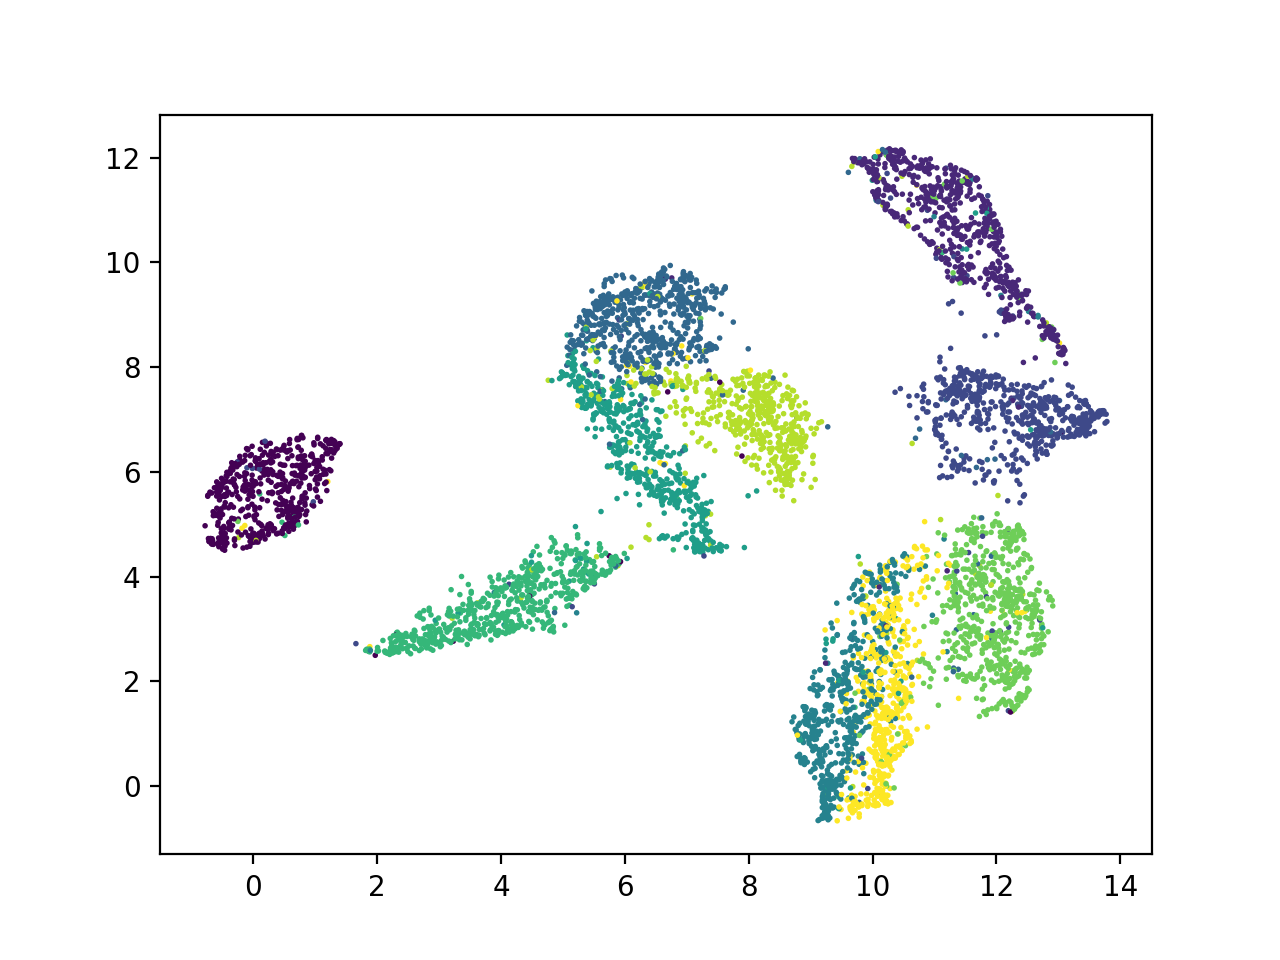
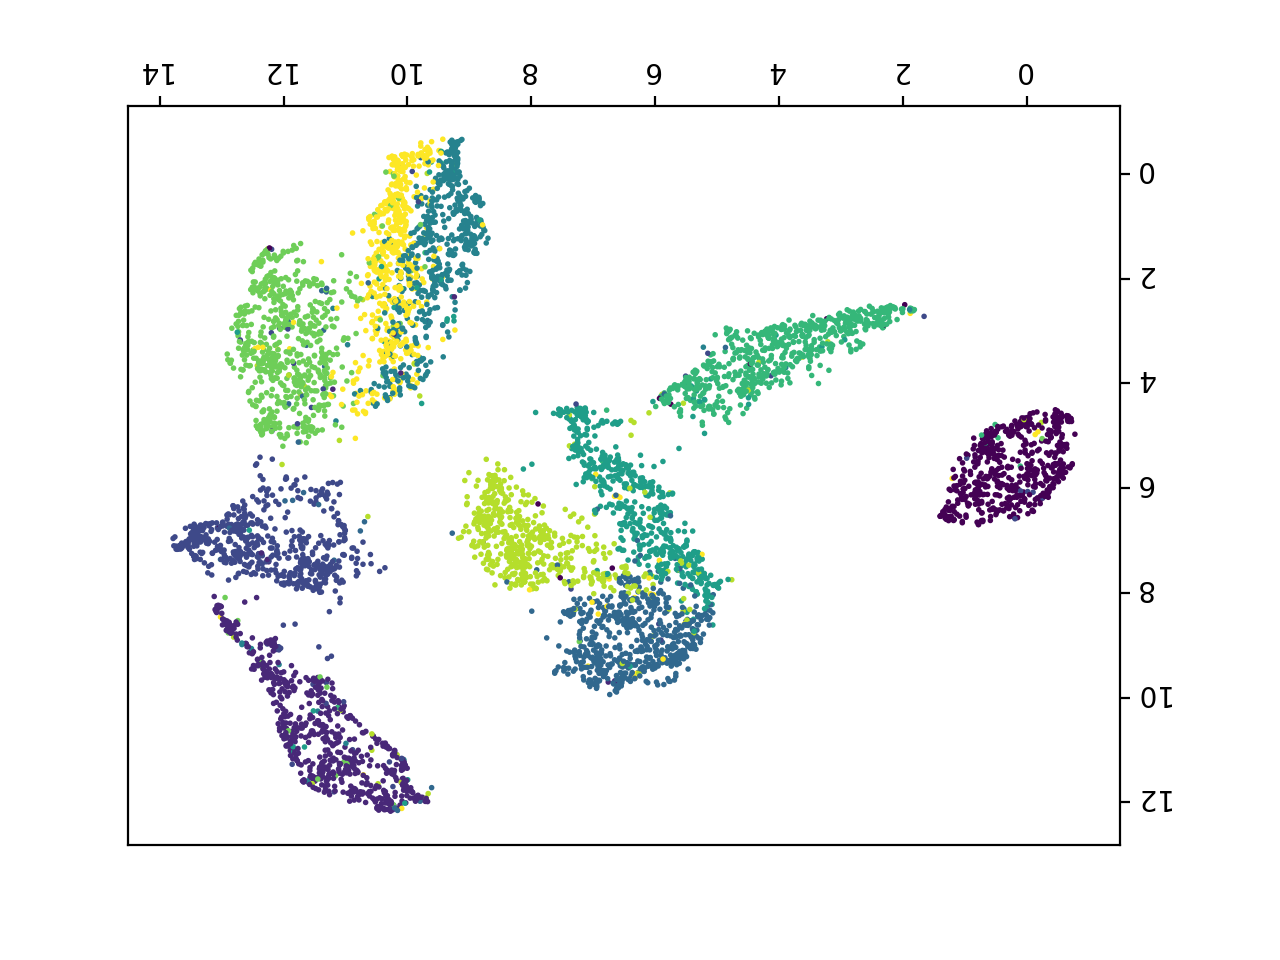
Option for change in symmetrization

Changed region(s): [[0.0938, 0.0625, 0.9062, 0.9375], [0.2812, 0.2812, 0.7188, 0.7188]]

diff --git a/umap/umap_.py b/umap/umap_.py
@@ -180,6 +180,8 @@ def smooth_knn_dist(
             for j in range(1, distances.shape[1]):
                 # ANDREW - when adding option for turning UMAP pseudo distance on/off,
                 #   an equivalent change needs to occur here!!
+                # FIXME FIXME FIXME -- does this just rotate everything 180 degrees??
+                # Images imply that it does
                 if pseudo_distance:
                     d = distances[i, j] - rho[i]
                 else:
@@ -424,10 +426,10 @@ def fuzzy_simplicial_set(
     knn_dists=None,
     angular=False,
     local_connectivity=1.0,
-    apply_set_operations=True,
     verbose=False,
     return_dists=True,
     pseudo_distance=True,
+    tsne_symmetrization=False
 ):
     """Given a set of data X, a neighborhood size, and a measure of distance
     compute the fuzzy simplicial set (here represented as a fuzzy graph in
@@ -530,10 +532,12 @@ def fuzzy_simplicial_set(
     # Symmetrized = A + A^T - pointwise_mul(A, A^T)
     # Add option to replace with t-SNE symmetrization
     # Symmetrized = (A + A^T) / 2
-    if apply_set_operations:
-        transpose = result.transpose()
+    transpose = result.transpose()
+    if not tsne_symmetrization:
         prod_matrix = result.multiply(transpose)
         result = result + transpose - prod_matrix
+    else:
+        result = (result + transpose) / 2
 
     result.eliminate_zeros()
 
@@ -1018,6 +1022,7 @@ class UMAP(BaseEstimator):
         self.pseudo_distance = pseudo_distance
         self.n_epochs = n_epochs
         self.init = init
+        self.tsne_symmetrization = tsne_symmetrization
         self.n_components = n_components
         self.repulsion_strength = repulsion_strength
         self.learning_rate = learning_rate
@@ -1298,9 +1303,9 @@ class UMAP(BaseEstimator):
                 self._knn_dists,
                 self.angular_rp_forest,
                 self.local_connectivity,
-                True,
                 self.verbose,
-                pseudo_distance=self.pseudo_distance
+                pseudo_distance=self.pseudo_distance,
+                tsne_symmetrization=self.tsne_symmetrization
             )
             # Report the number of vertices with degree 0 in our our umap.graph_
             # This ensures that they were properly disconnected.
@@ -1357,9 +1362,9 @@ class UMAP(BaseEstimator):
                 None,
                 self.angular_rp_forest,
                 self.local_connectivity,
-                True,
                 self.verbose,
-                pseudo_distance=self.pseudo_distance
+                pseudo_distance=self.pseudo_distance,
+                tsne_symmetrization=self.tsne_symmetrization
             )
             # Report the number of vertices with degree 0 in our our umap.graph_
             # This ensures that they were properly disconnected.
@@ -1408,9 +1413,9 @@ class UMAP(BaseEstimator):
                 self._knn_dists,
                 self.angular_rp_forest,
                 self.local_connectivity,
-                True,
                 self.verbose,
-                pseudo_distance=self.pseudo_distance
+                pseudo_distance=self.pseudo_distance,
+                tsne_symmetrization=self.tsne_symmetrization
             )
             # Report the number of vertices with degree 0 in our our umap.graph_
             # This ensures that they were properly disconnected.

diff --git a/umap/mnist_dr.py b/umap/mnist_dr.py
@@ -2,6 +2,7 @@ import numpy as np
 from tensorflow import keras as tfk
 from umap_ import UMAP
 import argparse
+from sklearn.manifold import TSNE
 from matplotlib import pyplot as plt
 
 parser = argparse.ArgumentParser()
@@ -9,6 +10,7 @@ parser.add_argument('--random-init', action='store_true', help='whether to initi
 parser.add_argument('--tsne-symmetrization', action='store_true', help='whether to symmetrize akin to tSNE method')
 parser.add_argument('--ignore-umap-metric', action='store_true', help='If true, do NOT subtract rho\'s in the umap pseudo-distance metric')
 parser.add_argument('--downsample_stride', type=int, default=10)
+parser.add_argument('--dr-algorithm', choices=['umap', 'tsne'], default='umap', help='Which algorithm to use to save images')
 args = parser.parse_args()
 
 init = 'spectral'
@@ -22,15 +24,18 @@ x_train, y_train = x_train[::args.downsample_stride], y_train[::args.downsample_
 num_samples = int(x_train.shape[0])
 x_train = np.reshape(x_train, [num_samples, -1])
 
-dr = UMAP(
-        random_state=12345,
-        init=init,
-        pseudo_distance=(not args.ignore_umap_metric),
-        tsne_symmetrization=args.tsne_symmetrization
-    )
+if args.dr_algorithm == 'umap':
+    dr = UMAP(
+            random_state=12345,
+            init=init,
+            pseudo_distance=(not args.ignore_umap_metric),
+            tsne_symmetrization=args.tsne_symmetrization
+        )
+else:
+    dr = TSNE(random_state=12345)
+
 print('fitting...')
-dr.fit(x_train)
-projection = dr.transform(x_train)
+projection = dr.fit_transform(x_train)
 
 plt.scatter(projection[:, 0], projection[:, 1], c=y_train, s=1)
 plt.show()
